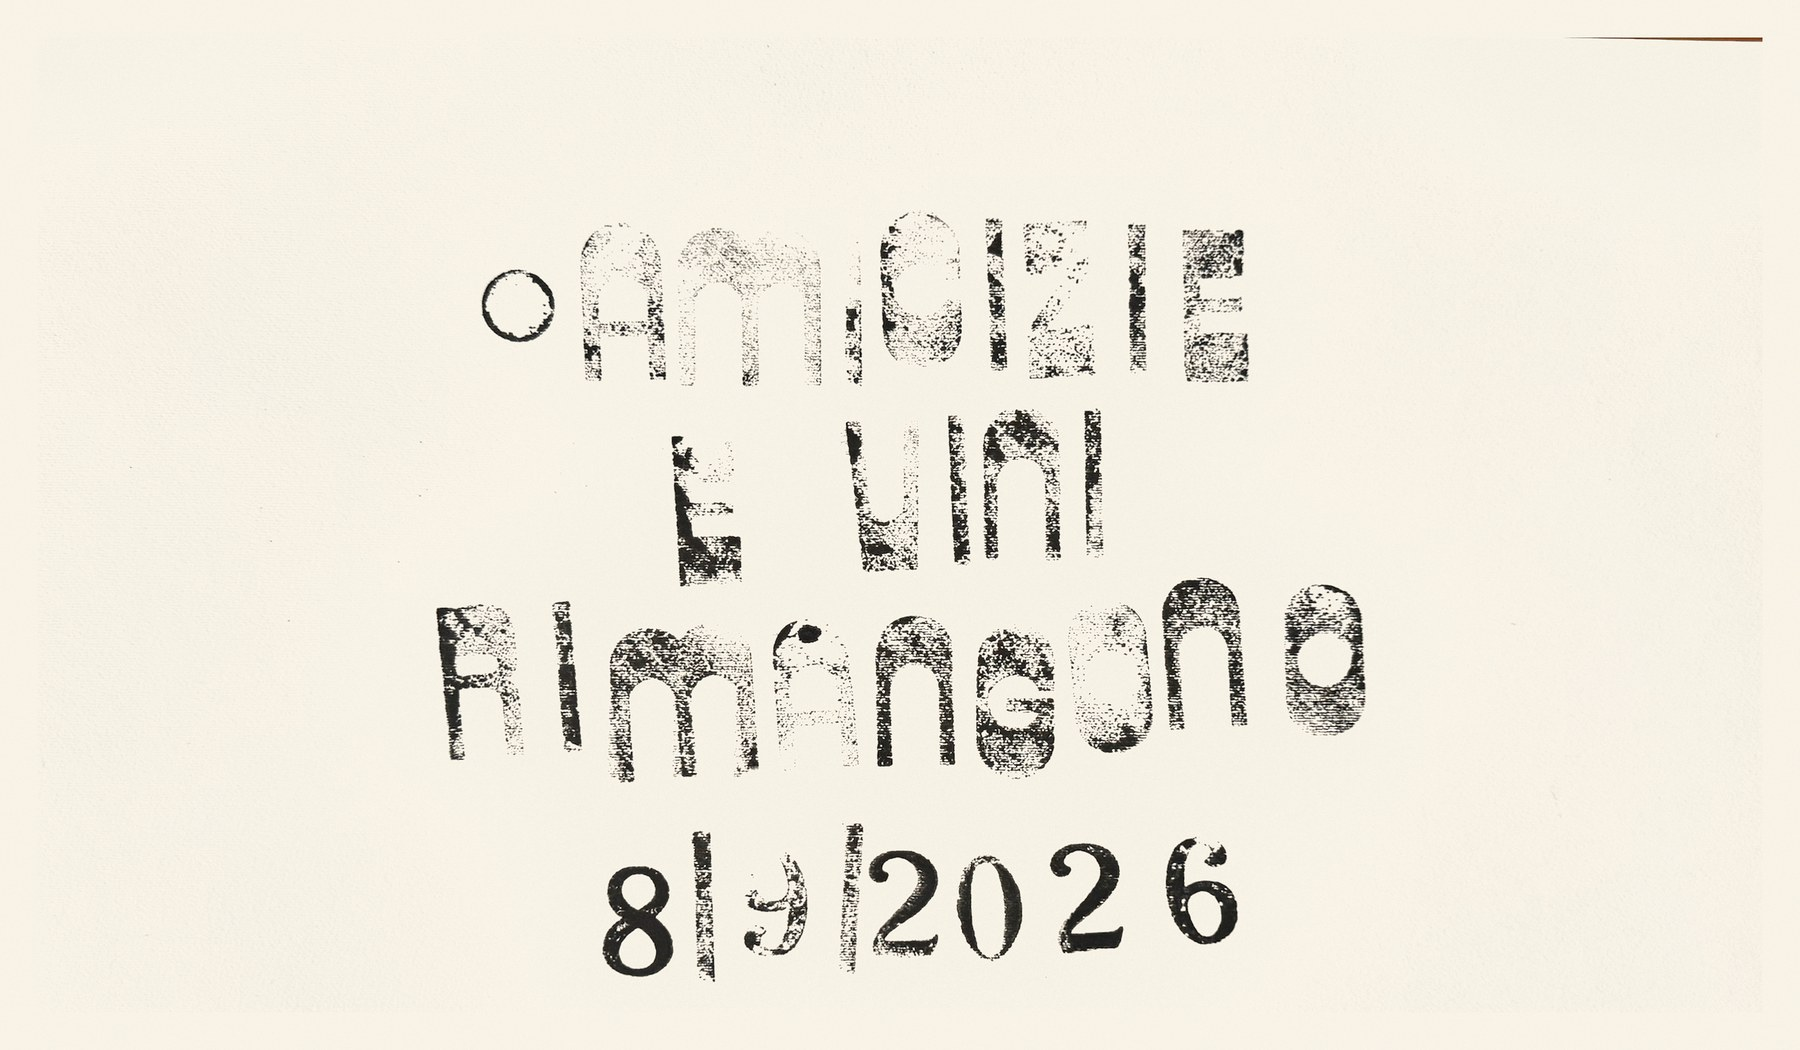
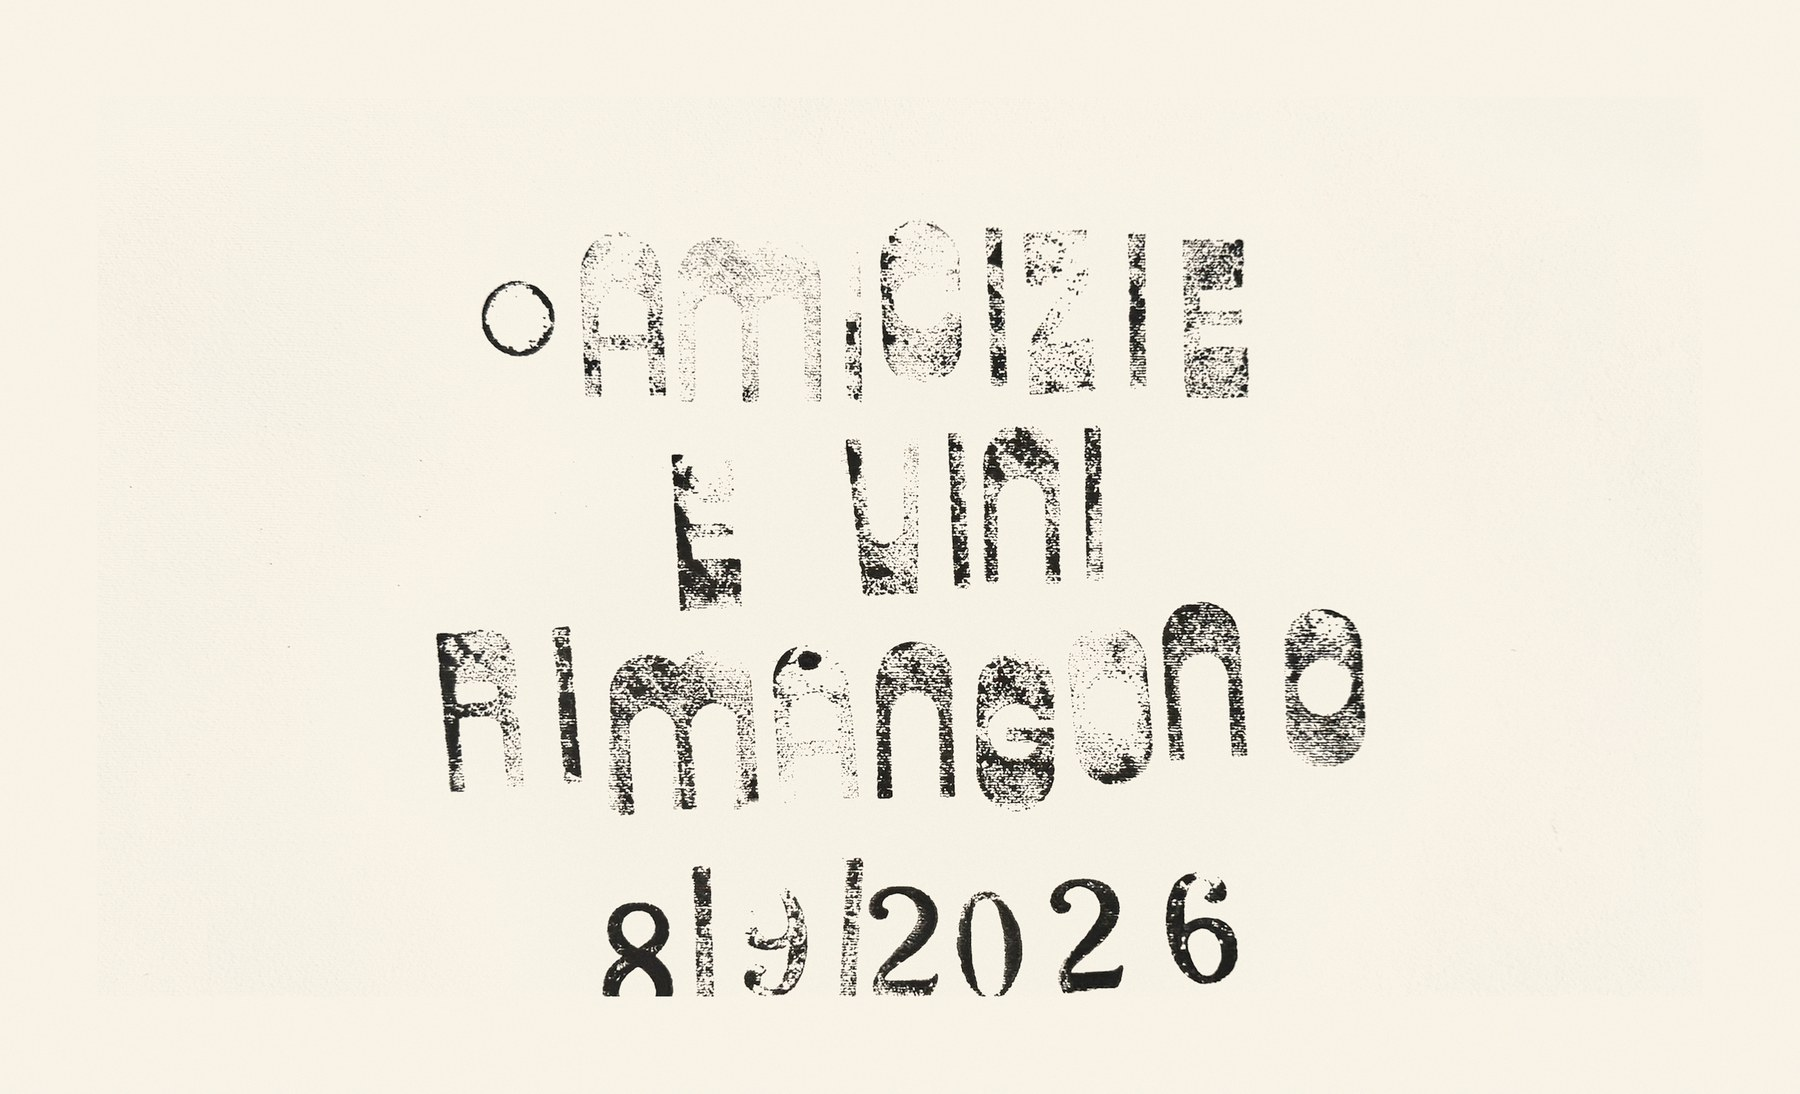
Fix 5-8/9/26 iter2: BORDER 130px per coprire scarti residui

diff --git a/index.html b/index.html
@@ -683,41 +683,41 @@ section#timbri{ padding-top: clamp(170px, 19vw, 250px); }
 <section class="page" id="timbri">
   <div class="gallery" id="gallery">
     <figure class="work">
-      <div class="work-frame" style="--ratio: 58.33%;">
+      <div class="work-frame" style="--ratio: 60.78%;">
         <img src="foto_definitive/Timbro_2026-09-08.jpg"
              srcset="foto_definitive/thumbs/Timbro_2026-09-08.jpg 800w, foto_definitive/Timbro_2026-09-08.jpg 1800w"
              sizes="(max-width: 720px) 92vw, 720px"
-             width="1800" height="1050"
+             width="1800" height="1094"
              alt="8/9/26" loading="lazy" decoding="async" />
       </div>
       <figcaption class="work-caption"><span class="work-date">8/9/26</span></figcaption>
     </figure>
     <figure class="work">
-      <div class="work-frame" style="--ratio: 68.78%;">
+      <div class="work-frame" style="--ratio: 70.39%;">
         <img src="foto_definitive/Timbro_2026-09-07.jpg"
              srcset="foto_definitive/thumbs/Timbro_2026-09-07.jpg 800w, foto_definitive/Timbro_2026-09-07.jpg 1800w"
              sizes="(max-width: 720px) 92vw, 720px"
-             width="1800" height="1238"
+             width="1800" height="1267"
              alt="7/9/26" loading="lazy" decoding="async" />
       </div>
       <figcaption class="work-caption"><span class="work-date">7/9/26</span></figcaption>
     </figure>
     <figure class="work">
-      <div class="work-frame" style="--ratio: 75.0%;">
+      <div class="work-frame" style="--ratio: 76.17%;">
         <img src="foto_definitive/Timbro_2026-09-06.jpg"
              srcset="foto_definitive/thumbs/Timbro_2026-09-06.jpg 800w, foto_definitive/Timbro_2026-09-06.jpg 1800w"
              sizes="(max-width: 720px) 92vw, 720px"
-             width="1800" height="1350"
+             width="1800" height="1371"
              alt="6/9/26" loading="lazy" decoding="async" />
       </div>
       <figcaption class="work-caption"><span class="work-date">6/9/26</span></figcaption>
     </figure>
     <figure class="work">
-      <div class="work-frame" style="--ratio: 70.83%;">
+      <div class="work-frame" style="--ratio: 72.28%;">
         <img src="foto_definitive/Timbro_2026-09-05.jpg"
              srcset="foto_definitive/thumbs/Timbro_2026-09-05.jpg 800w, foto_definitive/Timbro_2026-09-05.jpg 1800w"
              sizes="(max-width: 720px) 92vw, 720px"
-             width="1800" height="1275"
+             width="1800" height="1301"
              alt="5/9/26" loading="lazy" decoding="async" />
       </div>
       <figcaption class="work-caption"><span class="work-date">5/9/26</span></figcaption>
